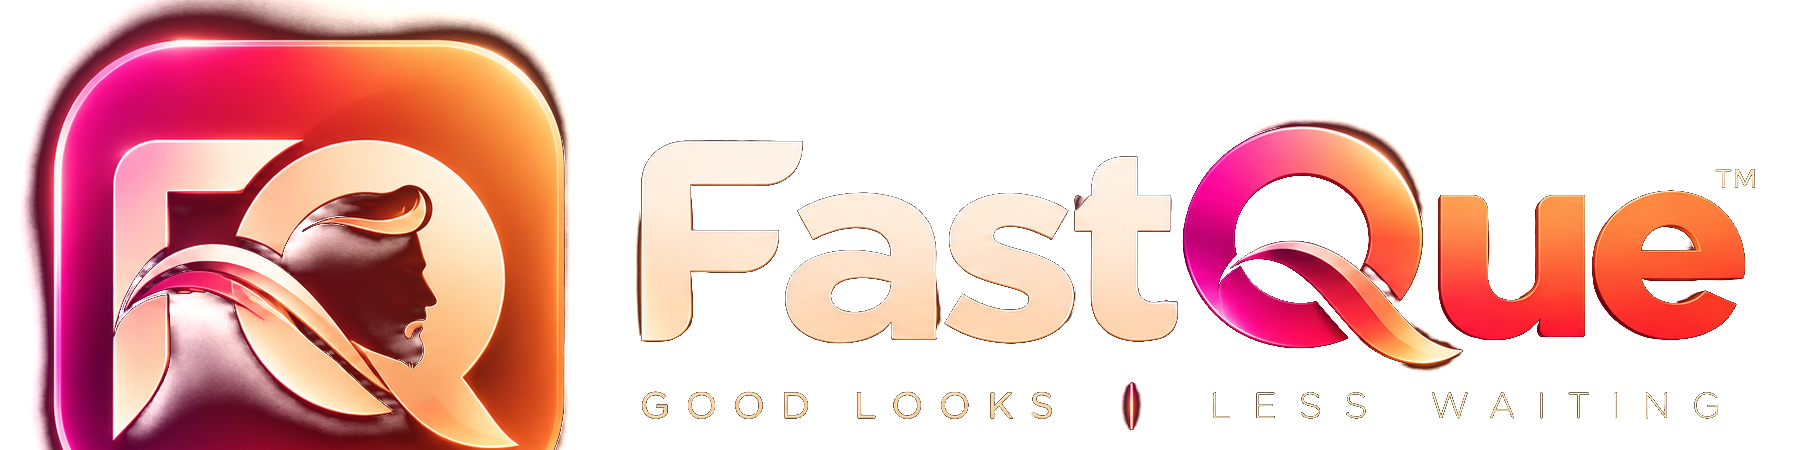
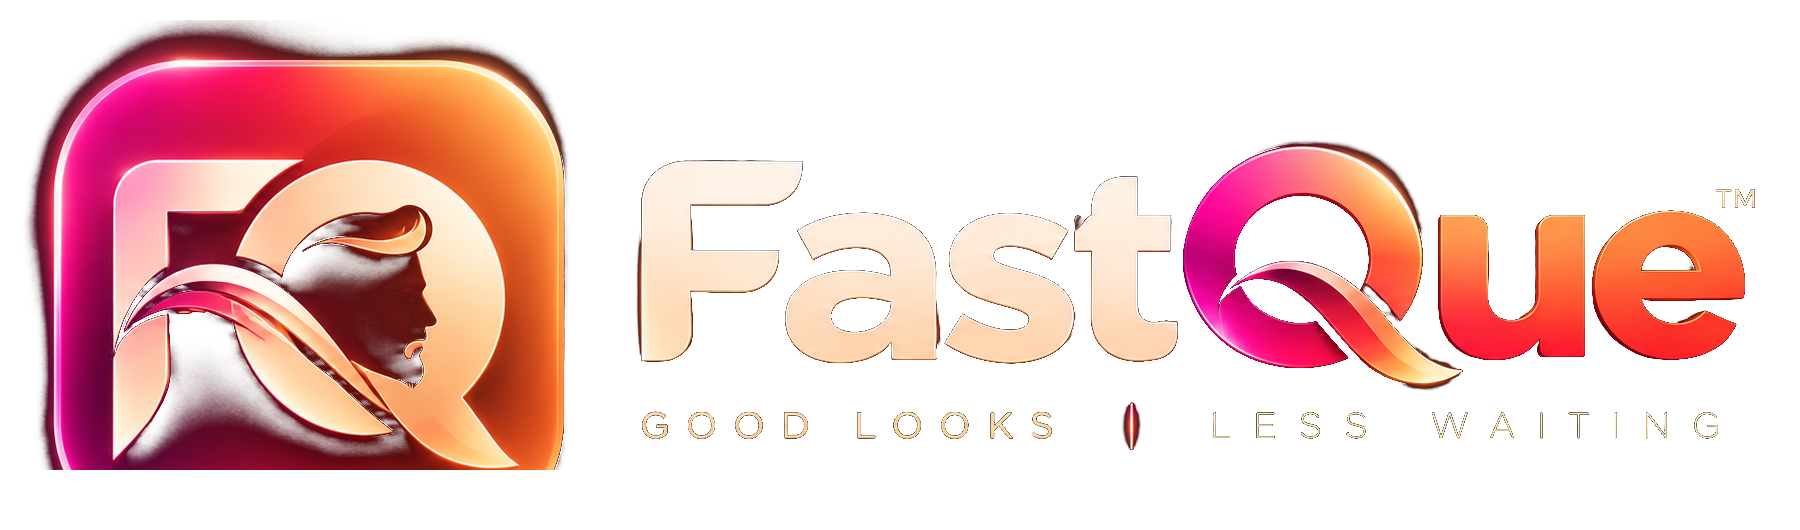
fix(web): expand the premium lockup's canvas to stop cutting off its bottom edge
Pixel-inspected public/brand/fastque-premium-3d-lockup-transparent.png
directly: its content bounding box was (17, 0, 1755, 450) on a 1800x450
canvas -- zero transparent clearance top AND bottom, with 505 pixels at
alpha>128 (genuinely visible, not antialiasing) on the very last pixel
row. The artwork's glow/tagline pixels touch the canvas edge, so no
amount of width-based CSS sizing could give it breathing room -- there
was none in the source to begin with. This is what an owner review
saw as a persistent bottom crop even after two rounds of pure
CSS-sizing fixes.

Fixed the actual cause instead of the symptom: pasted the exact same,
unscaled artwork onto a taller transparent canvas (1800x530 -- +20px
top, +60px bottom), touching zero pixels of the artwork itself. No
redraw, no resize, no derivative asset, no swap away from this NEW
premium design. Because the padding is vertical only, the artwork's
own width:height ratio relative to canvas width is unchanged, so at
any given rendered width the visible logo is exactly the same size as
before -- only the real transparent margin below the tagline/glow is
new.

The image's overall aspect ratio did shift slightly (1800:450 ->
1800:530), which means the header's fixed-position row now sits
~15-25px taller wherever the logo is near its own clamp ceiling
(1366px+ widths) -- confirmed via getBoundingClientRect at each
required viewport -- so .hero's padding-top (which exists purely to
[…]

diff --git a/apps/web/components/landing/landing.module.css b/apps/web/components/landing/landing.module.css
@@ -322,9 +322,11 @@
   position: relative;
   overflow: hidden;
   isolation: isolate;
-  /* Top padding reserves space for the fixed header above (utility bar + main nav row ≈ 118px at
-     this tier) since .landingHeader is position: fixed and out of flow — see its own comment. */
-  padding: 132px 24px 64px;
+  /* Top padding reserves space for the fixed header above (utility bar ~41px + main nav row, which
+     grows past its own 76px min-height to fit the logo's own rendered height at this tier's width
+     — up to ~97px at the widest point of this tier's own clamp range) since .landingHeader is
+     position: fixed and out of flow — see its own comment. */
+  padding: 156px 24px 64px;
   background: var(--fq-void);
   color: var(--fq-text);
 }
@@ -697,8 +699,9 @@
   }
 
   .hero {
-    /* Utility bar is hidden at this tier, so the fixed header is just the ~77px main nav row. */
-    padding: 100px 24px 96px;
+    /* Utility bar is hidden at this tier, so the fixed header is just the main nav row — but at
+       this tier's own clamp ceiling the logo's rendered height grows the row to ~100px. */
+    padding: 120px 24px 96px;
   }
 
   .heroInner {
